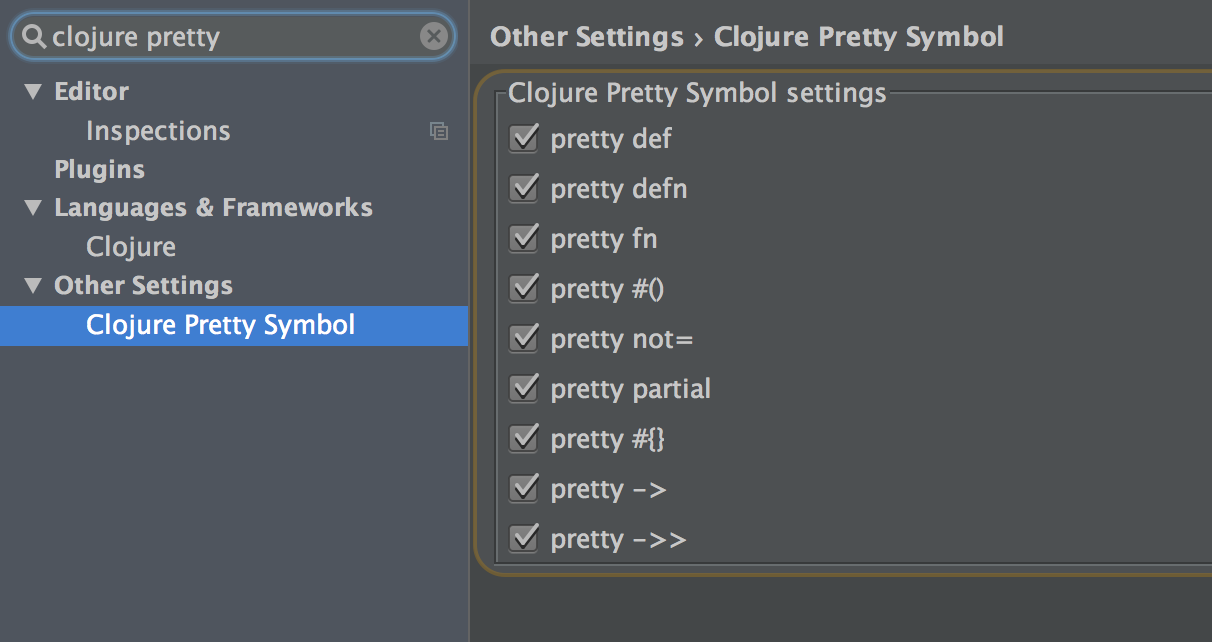
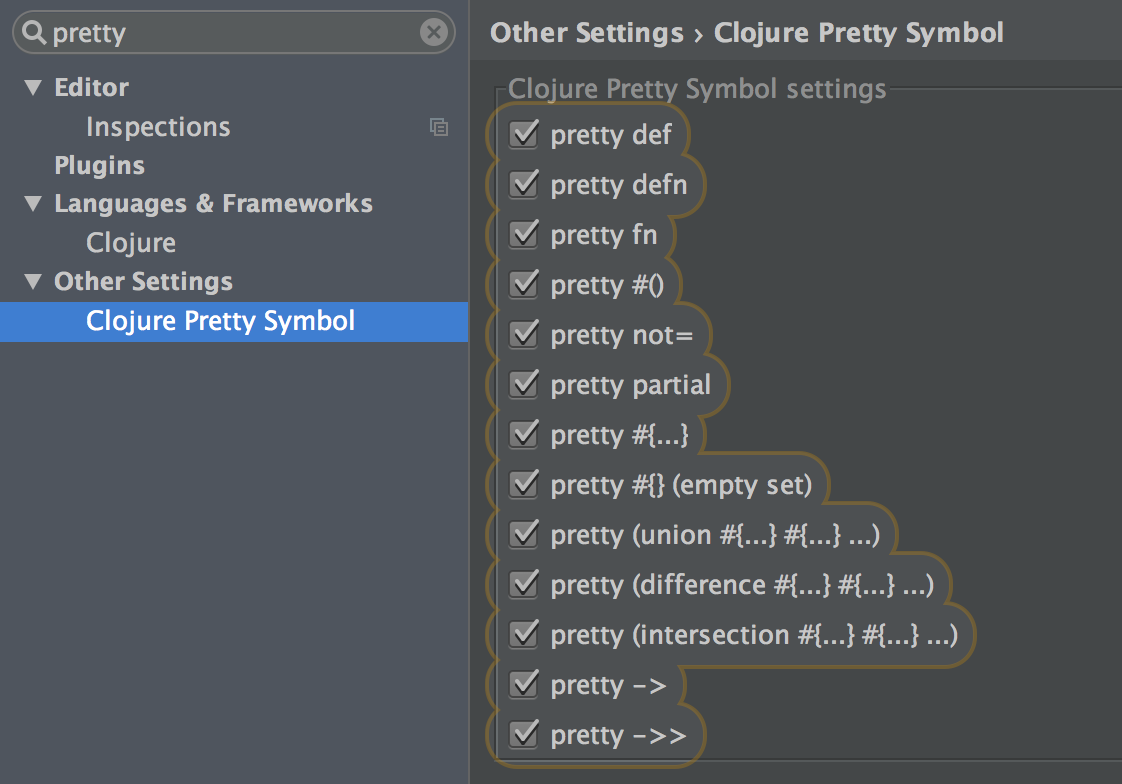
update settings pic and loose set operators predicates

Changed region(s): [[0.0, 0.0, 1.0, 0.9969], [0.7799, 0.6542, 0.8422, 0.7165]]

diff --git a/src/zjhmale/cps/CPSFoldingBuilder.java b/src/zjhmale/cps/CPSFoldingBuilder.java
@@ -75,8 +75,6 @@ public class CPSFoldingBuilder implements FoldingBuilder {
 
     private static int findLeftParenthese(String text, int start) {
         String prevChar = "";
-        int leftCount = 0;
-        int rightCount = 0;
         while (!prevChar.equals("(") && start > 0) {
             prevChar = text.substring(start - 1, start);
             start--;
@@ -148,9 +146,8 @@ public class CPSFoldingBuilder implements FoldingBuilder {
                     shouldFold = settings.turnOnSet;
                 }
             } else if (setOperators.contains(key)) {
-                String nextThreeChars = text.substring(rangeEnd, rangeEnd + 3);
                 rangeStart = findLeftParenthese(text, rangeStart) + 1;
-                if (nextThreeChars.equals(" #{")) {
+                if (nextChar.equals(" ")) {
                     if (key.equals("union")) {
                         shouldFold = settings.turnOnSetUnion;
                     }
